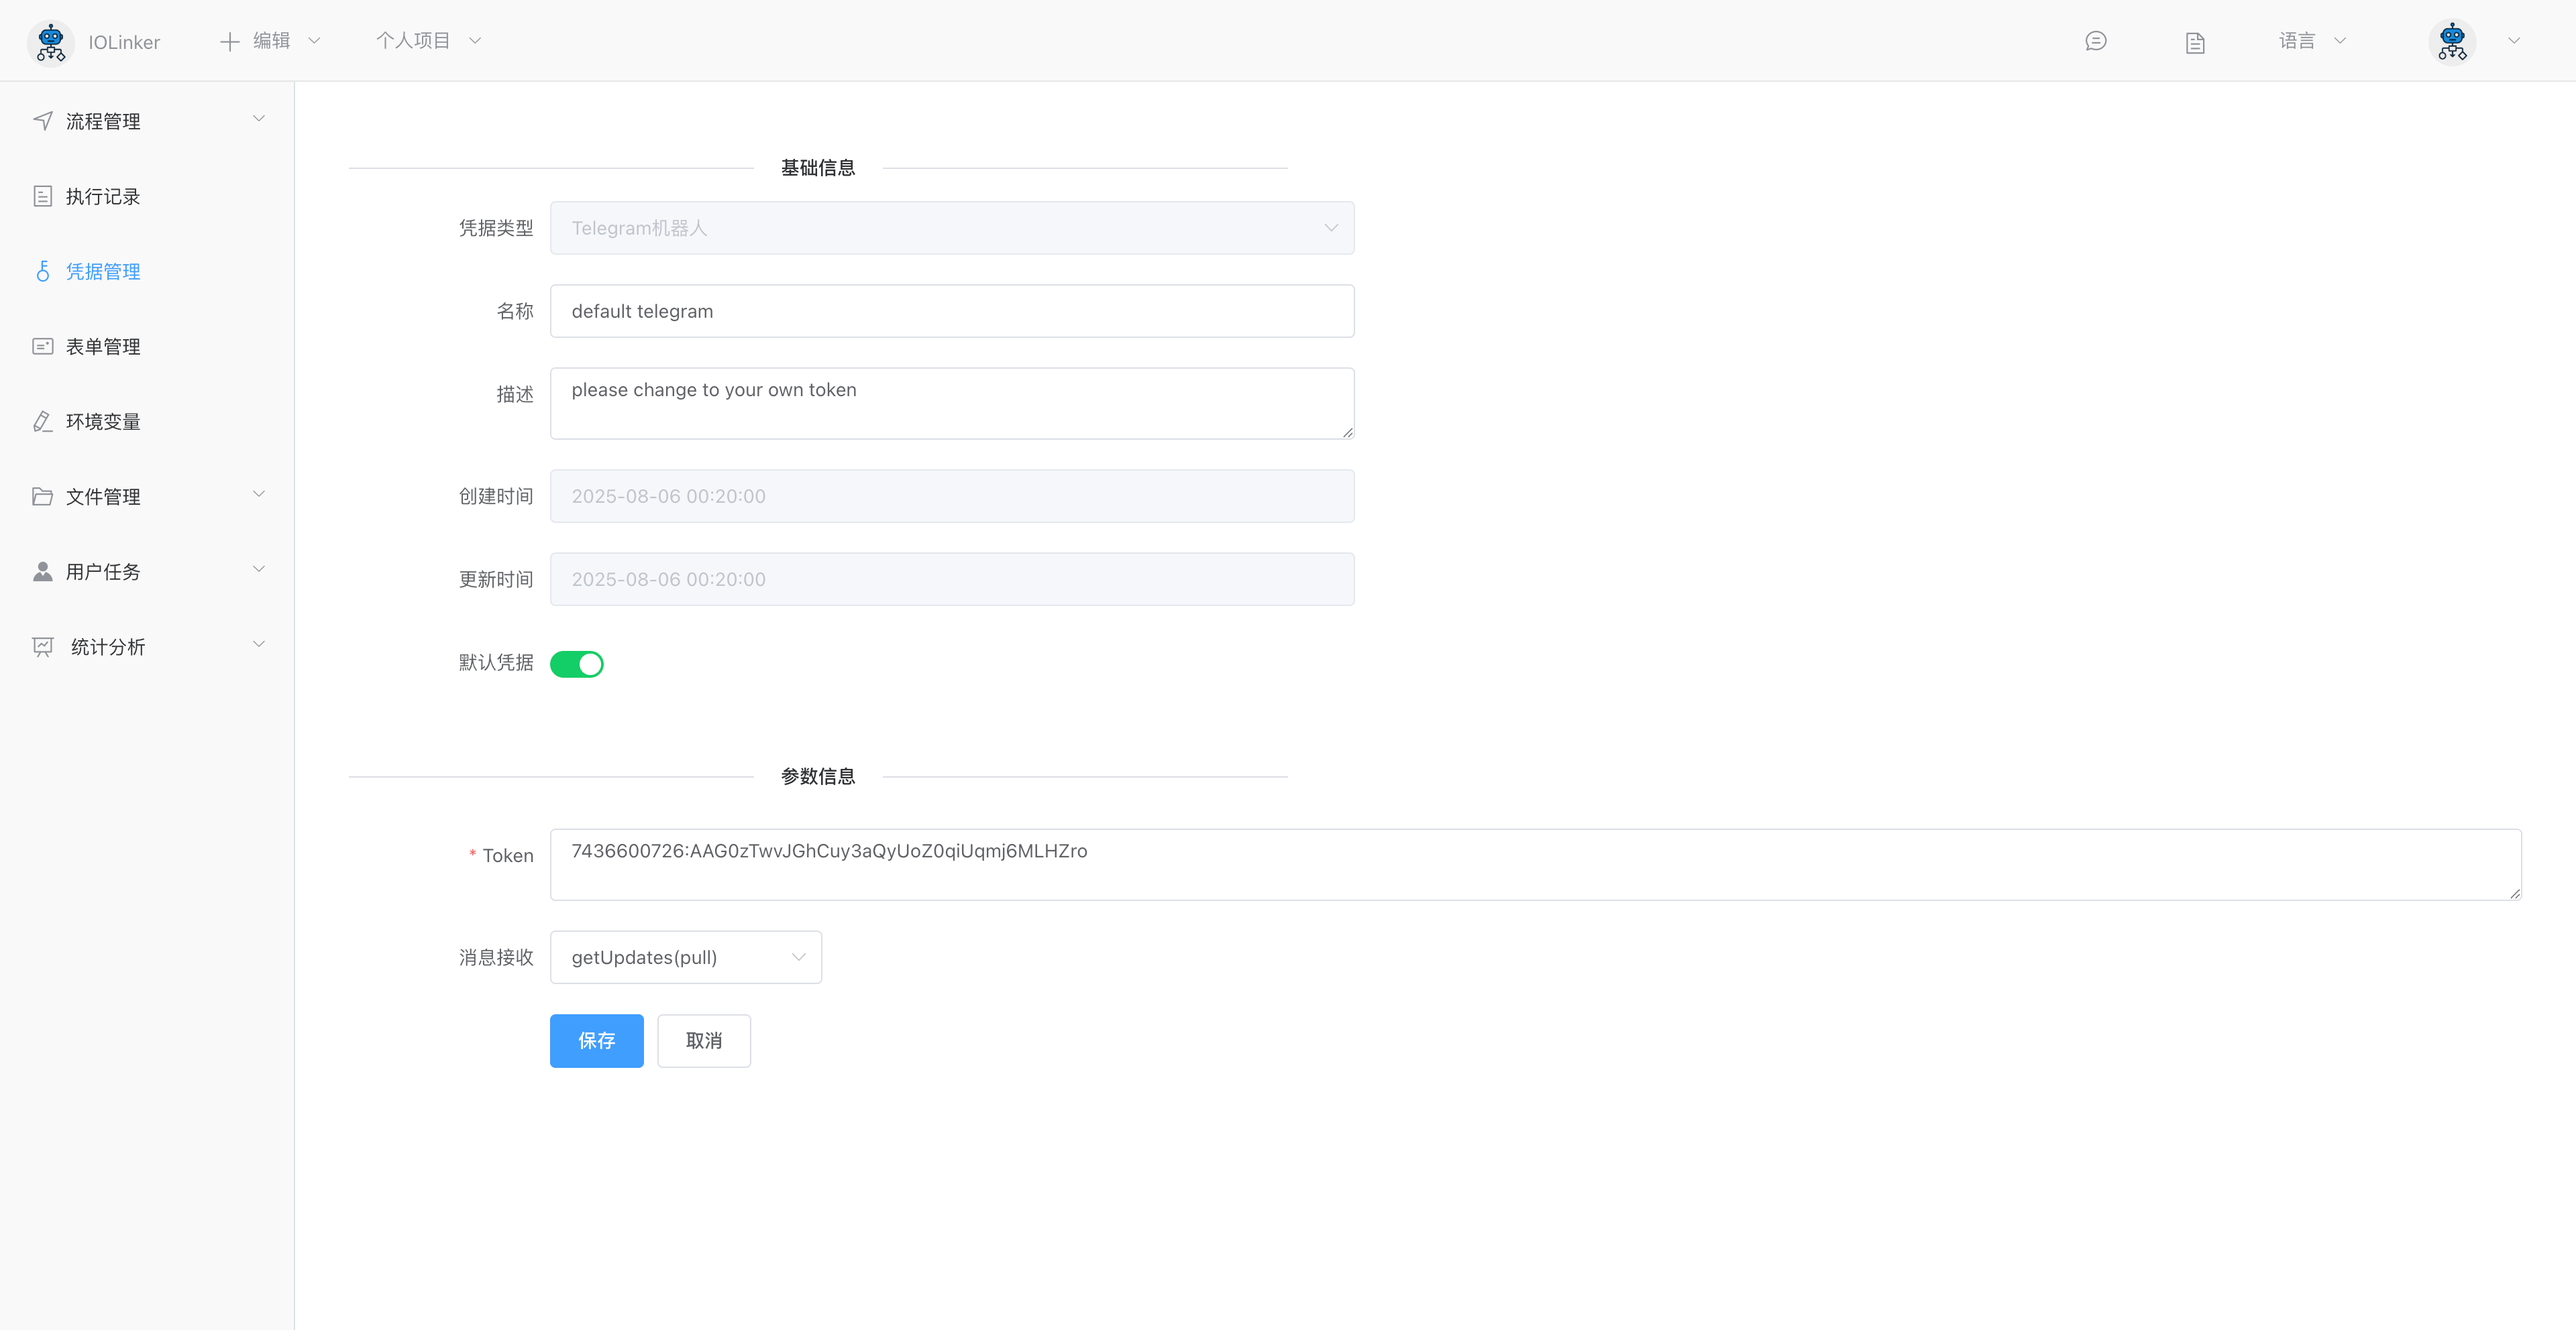
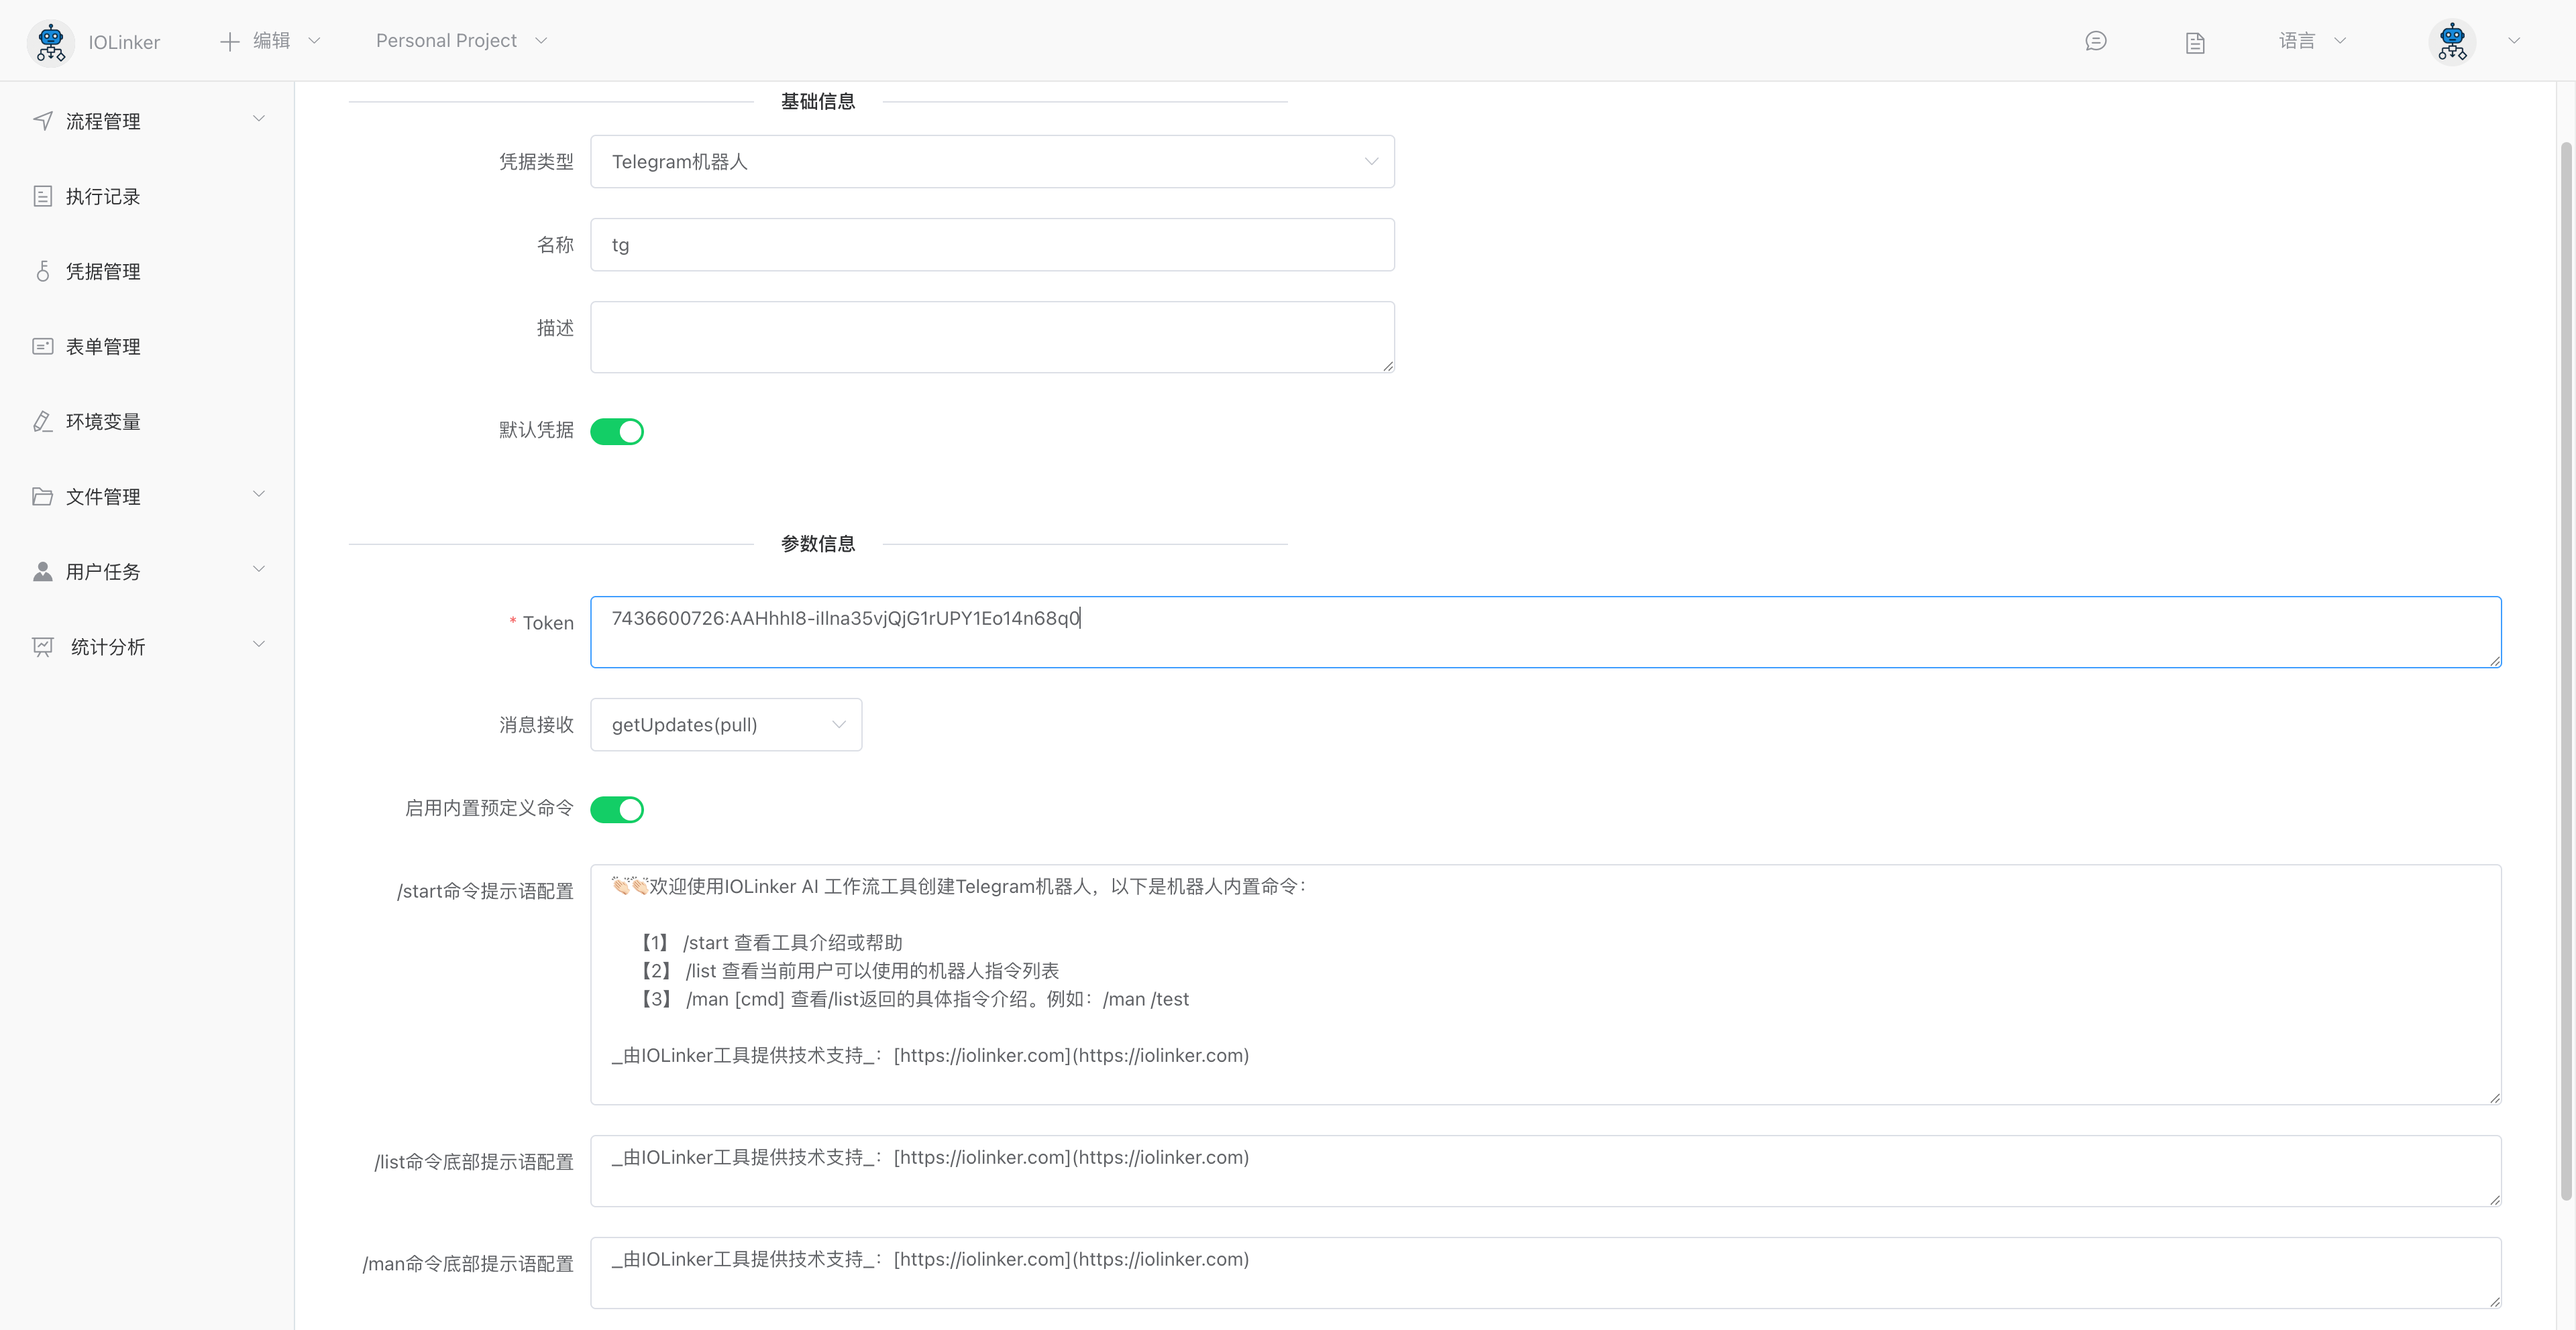
update md

diff --git a/docs/zh/blog/how-to-create-telegram-bot-in-one-minute.md b/docs/zh/blog/how-to-create-telegram-bot-in-one-minute.md
@@ -91,13 +91,23 @@ Telegram官网机器人API（非常多！！）：
 
 #### (2) 创建Telegram凭据
 
-这里相信大部分人应该都有，就不详细展开，主要是取官方的BotFather申请。
+这里相信大部分人应该都有，就不详细展开，主要是去官方的BotFather申请。
 
-<img src="../img/create_telegram_bot_from_botfather.png" alt="如何通过BotFather申请Telegram机器人" title="如何通过BotFather申请Telegram机器人"  style="zoom:50%;" />
+<img src="./img/create_telegram_bot_from_botfather.png" alt="如何通过BotFather申请Telegram机器人" title="如何通过BotFather申请Telegram机器人" style="zoom:50%;" />
 
 创建完凭据后，进入IOLinker的凭据管理页面，录入前面创建的Telegram凭据：
 
 <img src="./img/create-telegram-credential.png" alt="在IOLinker创建Telegram凭据" title="在IOLinker创建Telegram凭据" style="zoom:50%;" />
+
+- 这里设置该凭据未默认凭据，这个我们跟机器人聊天时，系统会默认定位到是哪个Telegram凭据
+
+- 启用内置预设命令，启用后，默认就可以使用`/start`、`/man`和`/list`三个自定义命令，没写一行代码就可以轻松实现指令功能。如果要修改描述，可以到创建凭据的页面进行修改。
+
+  <img src="./img/tg-bot-start-cmd.png" alt="tg-bot-start-cmd" alt="telegram 机器人/start命令" title="telegram 机器人/start命令" style="zoom:50%;" />
+
+  自定义命令列表：
+
+  <img src="./img/builtin-cmd-list.png" alt="builtin-cmd-list" title="内置的自定义命令" style="zoom:50%;" />
 
 #### (3) 创建并配置Telegram机器人触发器
 
@@ -112,14 +122,15 @@ Telegram官网机器人API（非常多！！）：
 - 授权成员：默认不填即支持响应所有人的输入
 - 触发范围：选择命令输入触发。备注：默认是任意输入触发，即不管输入什么字符串都会响应
 - 命令：这里我们使用每个机器人默认都带的/start命令
+- 命令介绍：这里设置后可以在Bot的预设命令列表显示
 - 命令行参数：参考文档：[命令行参数使用](https://iolinker.com/zh/trigger_telegram.html#%E5%91%BD%E4%BB%A4%E5%92%8C%E5%8F%82%E6%95%B0)
 - 调试数据：这里主要是模仿Telegram机器人触发器执行后的输出结果，可以在不实际运行机器人时模拟数据输出
 
-<img src="./img/set-tg-bot-trigger.png" alt="设置Telegram Bot触发器配置页面" title="设置Telegram Bot触发器配置页面" style="zoom:50%;" />
+<img src="./img/set-tg-bot-trigger.png"  alt="设置Telegram Bot触发器配置页面" title="设置Telegram Bot触发器配置页面" style="zoom:50%;" />
 
 到这里，如果我们直接保存，并启用，实际上是可以运行了，只不过这里只是捕获用户的输入没有给用户实际反馈，实际如下：
 
-<img src="./img/tg-bot-start-cmd.png" alt="telegram 机器人/start命令" title="telegram 机器人/start命令" style="zoom:50%;" />
+xxx
 
 在Telegram机器人输入`/start`指令后，我们可以在工作流列表中看到工作流响应执行的记录。
 
